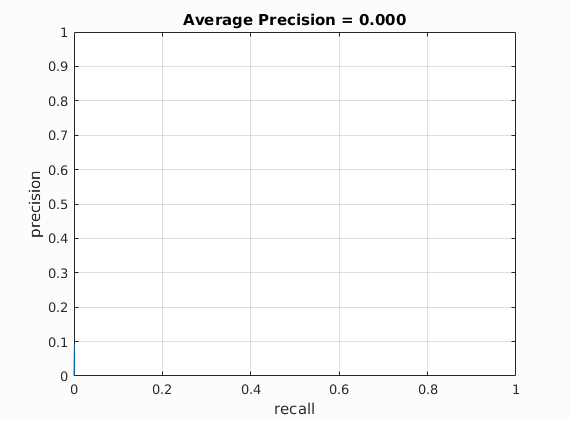
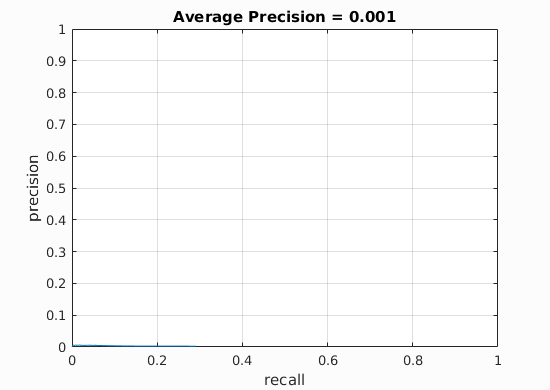
evaluation code added

Changed region(s): [[0.0309, 0.0308, 0.8964, 0.9538], [0.4636, 0.9538, 0.5564, 1.0], [0.4327, 0.9231, 0.4636, 0.9538]]

diff --git a/tools/evaluation/runall.m b/tools/evaluation/runall.m
@@ -24,7 +24,7 @@ for kkk = 1%:5
     %%
     unique_image = unique(image_ids);
 
-    all_tp=0; all_fp=0; all_box_num = 0; all_gt_box_num =0;
+    all_tp=[]; all_fp=[]; all_box_num = 0; all_gt_box_num =0;
     for i = 1:length(unique_image)
         ids = find(image_ids==unique_image(i));
         label_path = fullfile(label_parent_dir,sprintf('picture_%06d.txt',unique_image(i)));
@@ -36,15 +36,15 @@ for kkk = 1%:5
 %         all_gt_box_num = all_gt_box_num + obj_count;
         
         con_idx=find(confidences(ids,:)>0.0);
-        if ~isempty(tp)
+%         if ~isempty(tp)
             all_tp = [all_tp;tp(con_idx)];
             all_fp = [all_fp;fp(con_idx)];
             all_box_num = all_box_num + length(tp(con_idx));
             all_gt_box_num = all_gt_box_num + obj_count;
-        end
+%         end
     end
     
-    [prec, rec, ap, cum_tp, cum_fp]=compute_cu_pr(tp,fp,all_gt_box_num);
+    [prec, rec, ap, cum_tp, cum_fp]=compute_cu_pr(all_tp,all_fp,all_gt_box_num,confidences);
     draw(prec, rec, ap, cum_fp)
     
     

diff --git a/lib/fast_rcnn/test.py b/lib/fast_rcnn/test.py
@@ -18,6 +18,7 @@ from fast_rcnn.nms_wrapper import nms
 import cPickle
 from utils.blob import im_list_to_blob
 import os
+import pdb
 
 def _get_image_blob(im):
     """Converts an image into a network input.
@@ -152,6 +153,7 @@ def im_detect(net, im, boxes=None):
     else:
         forward_kwargs['rois'] = blobs['rois'].astype(np.float32, copy=False)
     blobs_out = net.forward(**forward_kwargs)
+    pdb.set_trace()
 
     if cfg.TEST.HAS_RPN:
         assert len(im_scales) == 1, "Only single-image batch implemented"
@@ -169,7 +171,7 @@ def im_detect(net, im, boxes=None):
 
     if cfg.TEST.BBOX_REG:
         # Apply bounding-box regression deltas
-        box_deltas = blobs_out['bbox_pred']
+        box_deltas = blobs_out['my_bbox_pred']
         pred_boxes = bbox_transform_inv(boxes, box_deltas)
         pred_boxes = clip_boxes(pred_boxes, im.shape)
     else:

diff --git a/tools/evaluation/compute_cu_pr.m b/tools/evaluation/compute_cu_pr.m
@@ -1,4 +1,10 @@
-function [prec, rec, ap, cum_tp, cum_fp]=compute_cu_pr(tp,fp,npos)
+function [prec, rec, ap, cum_tp, cum_fp]=compute_cu_pr(tp,fp,npos,confidences)
+
+% sorting according to confidence
+[sc,si]=sort(-confidences);
+tp= tp(si);
+fp= fp(si);
+
 % compute cumulative precision/recall
 cum_fp=cumsum(fp);
 cum_tp=cumsum(tp);
